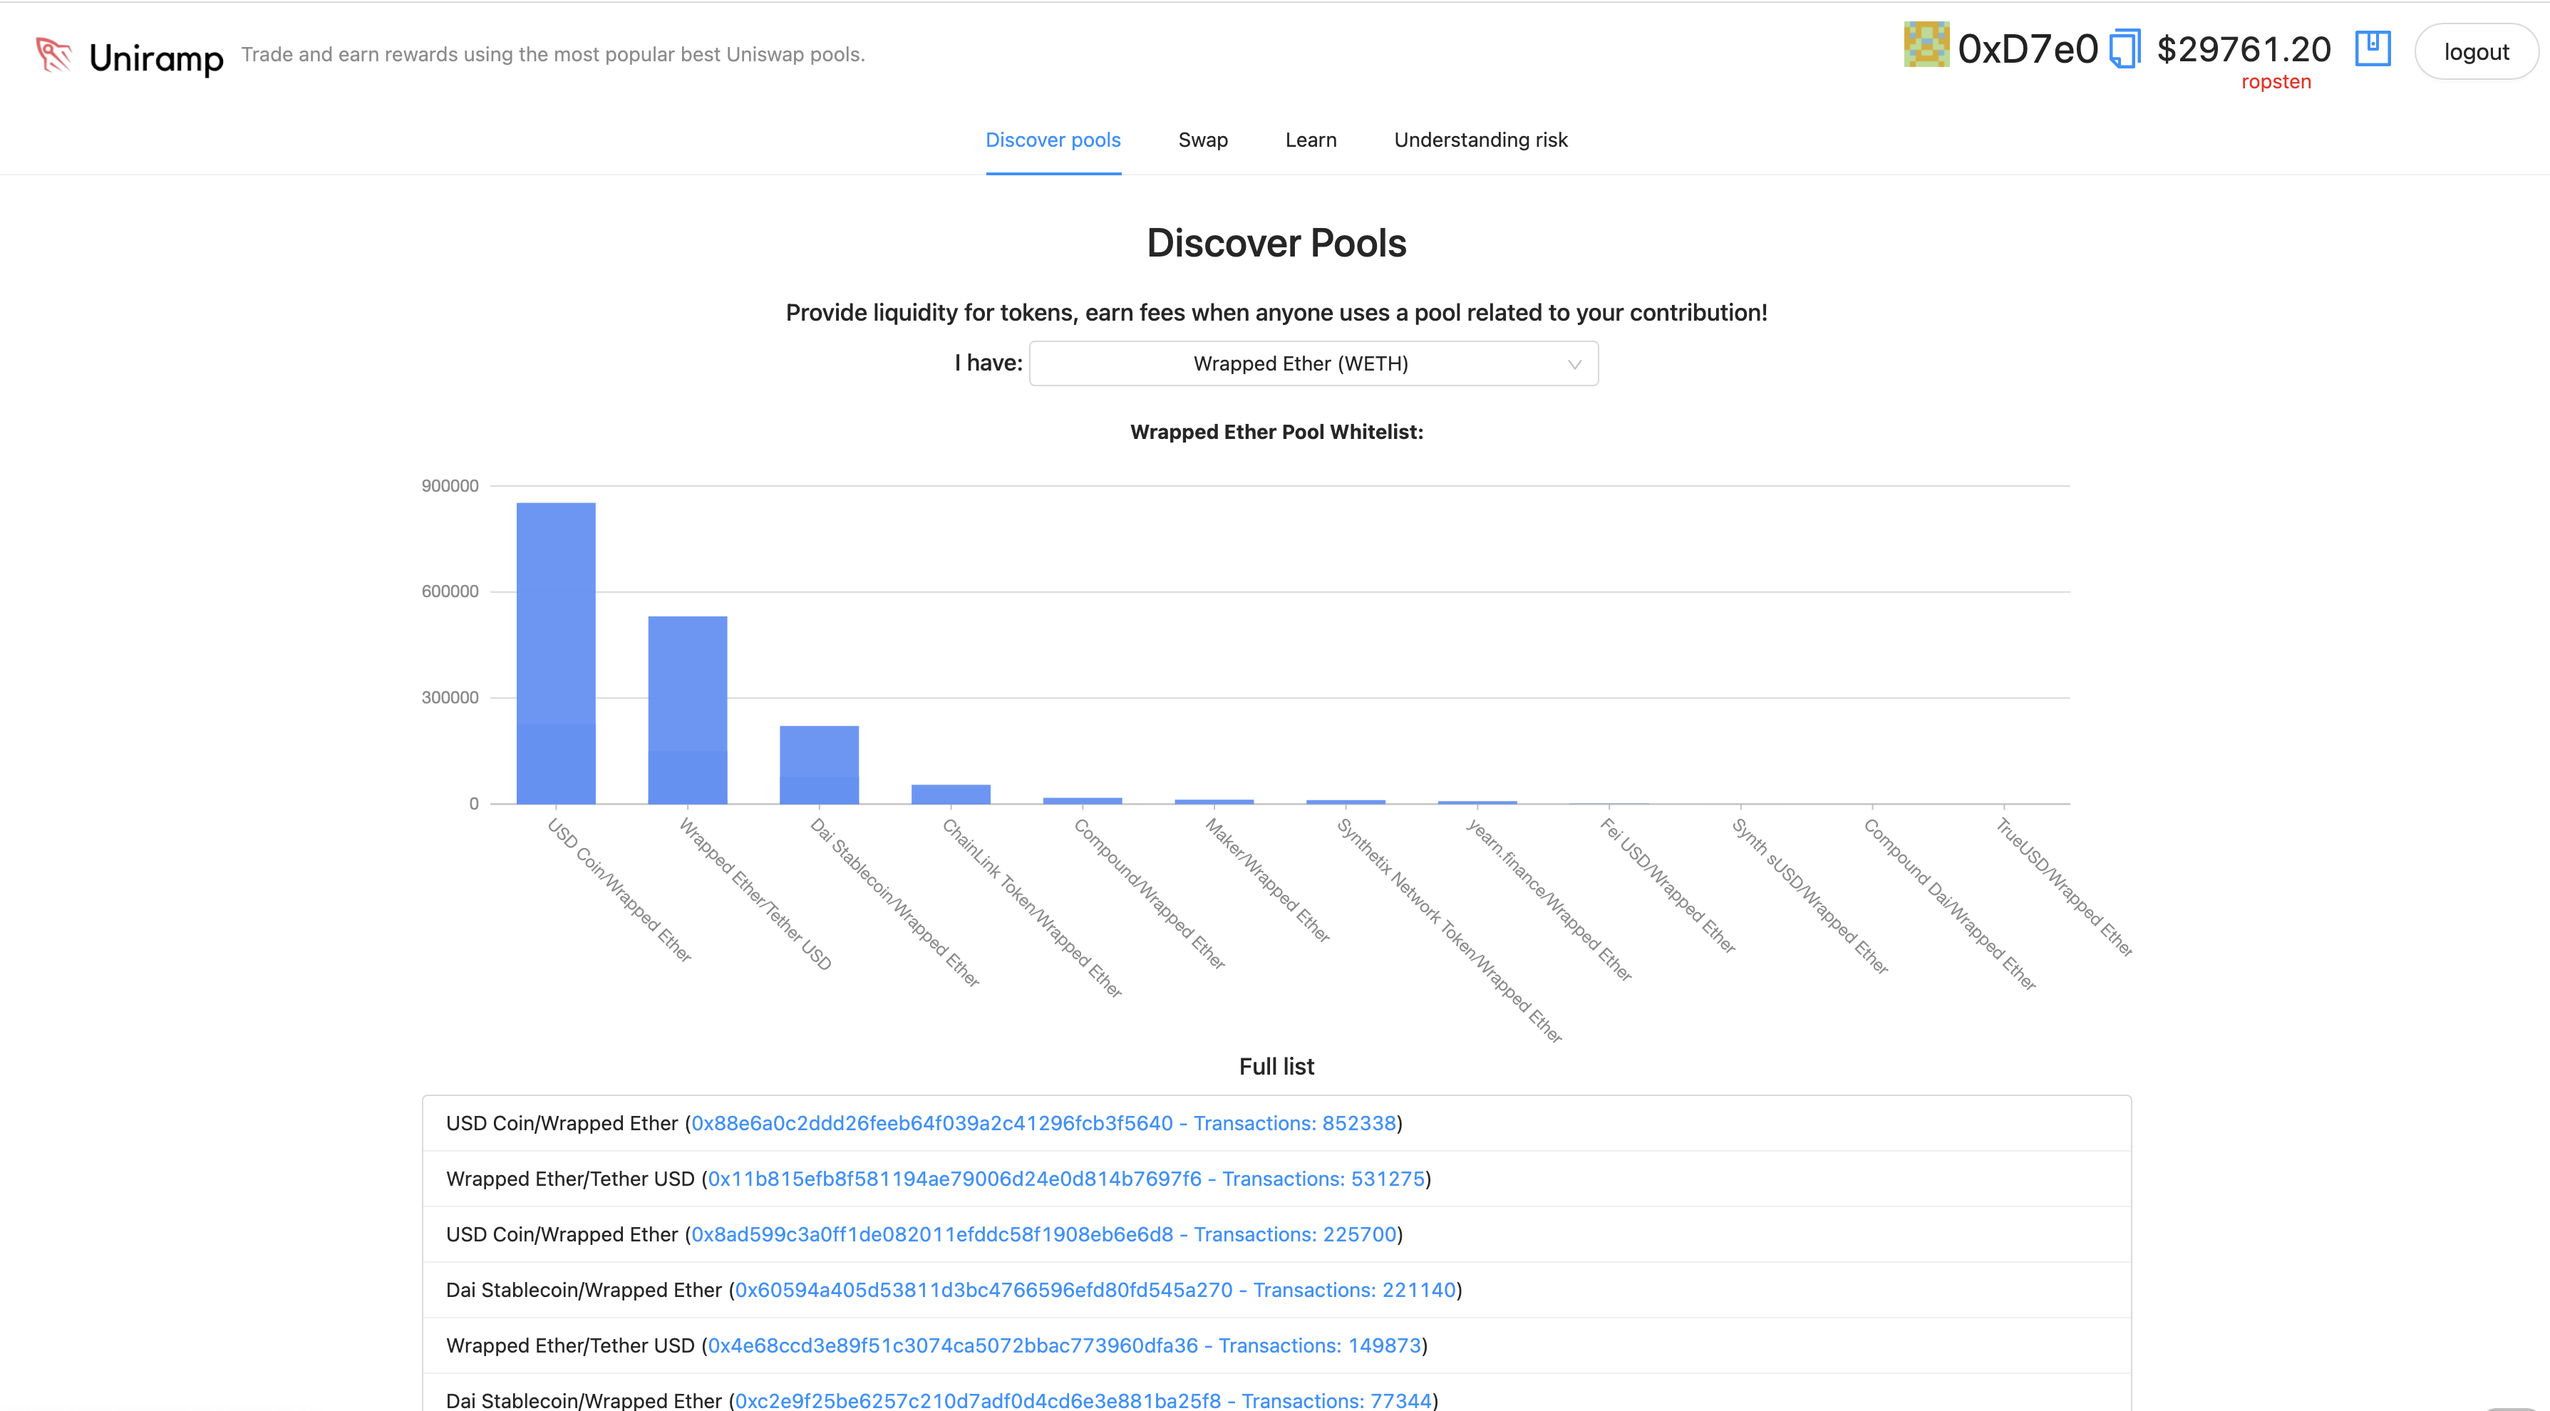
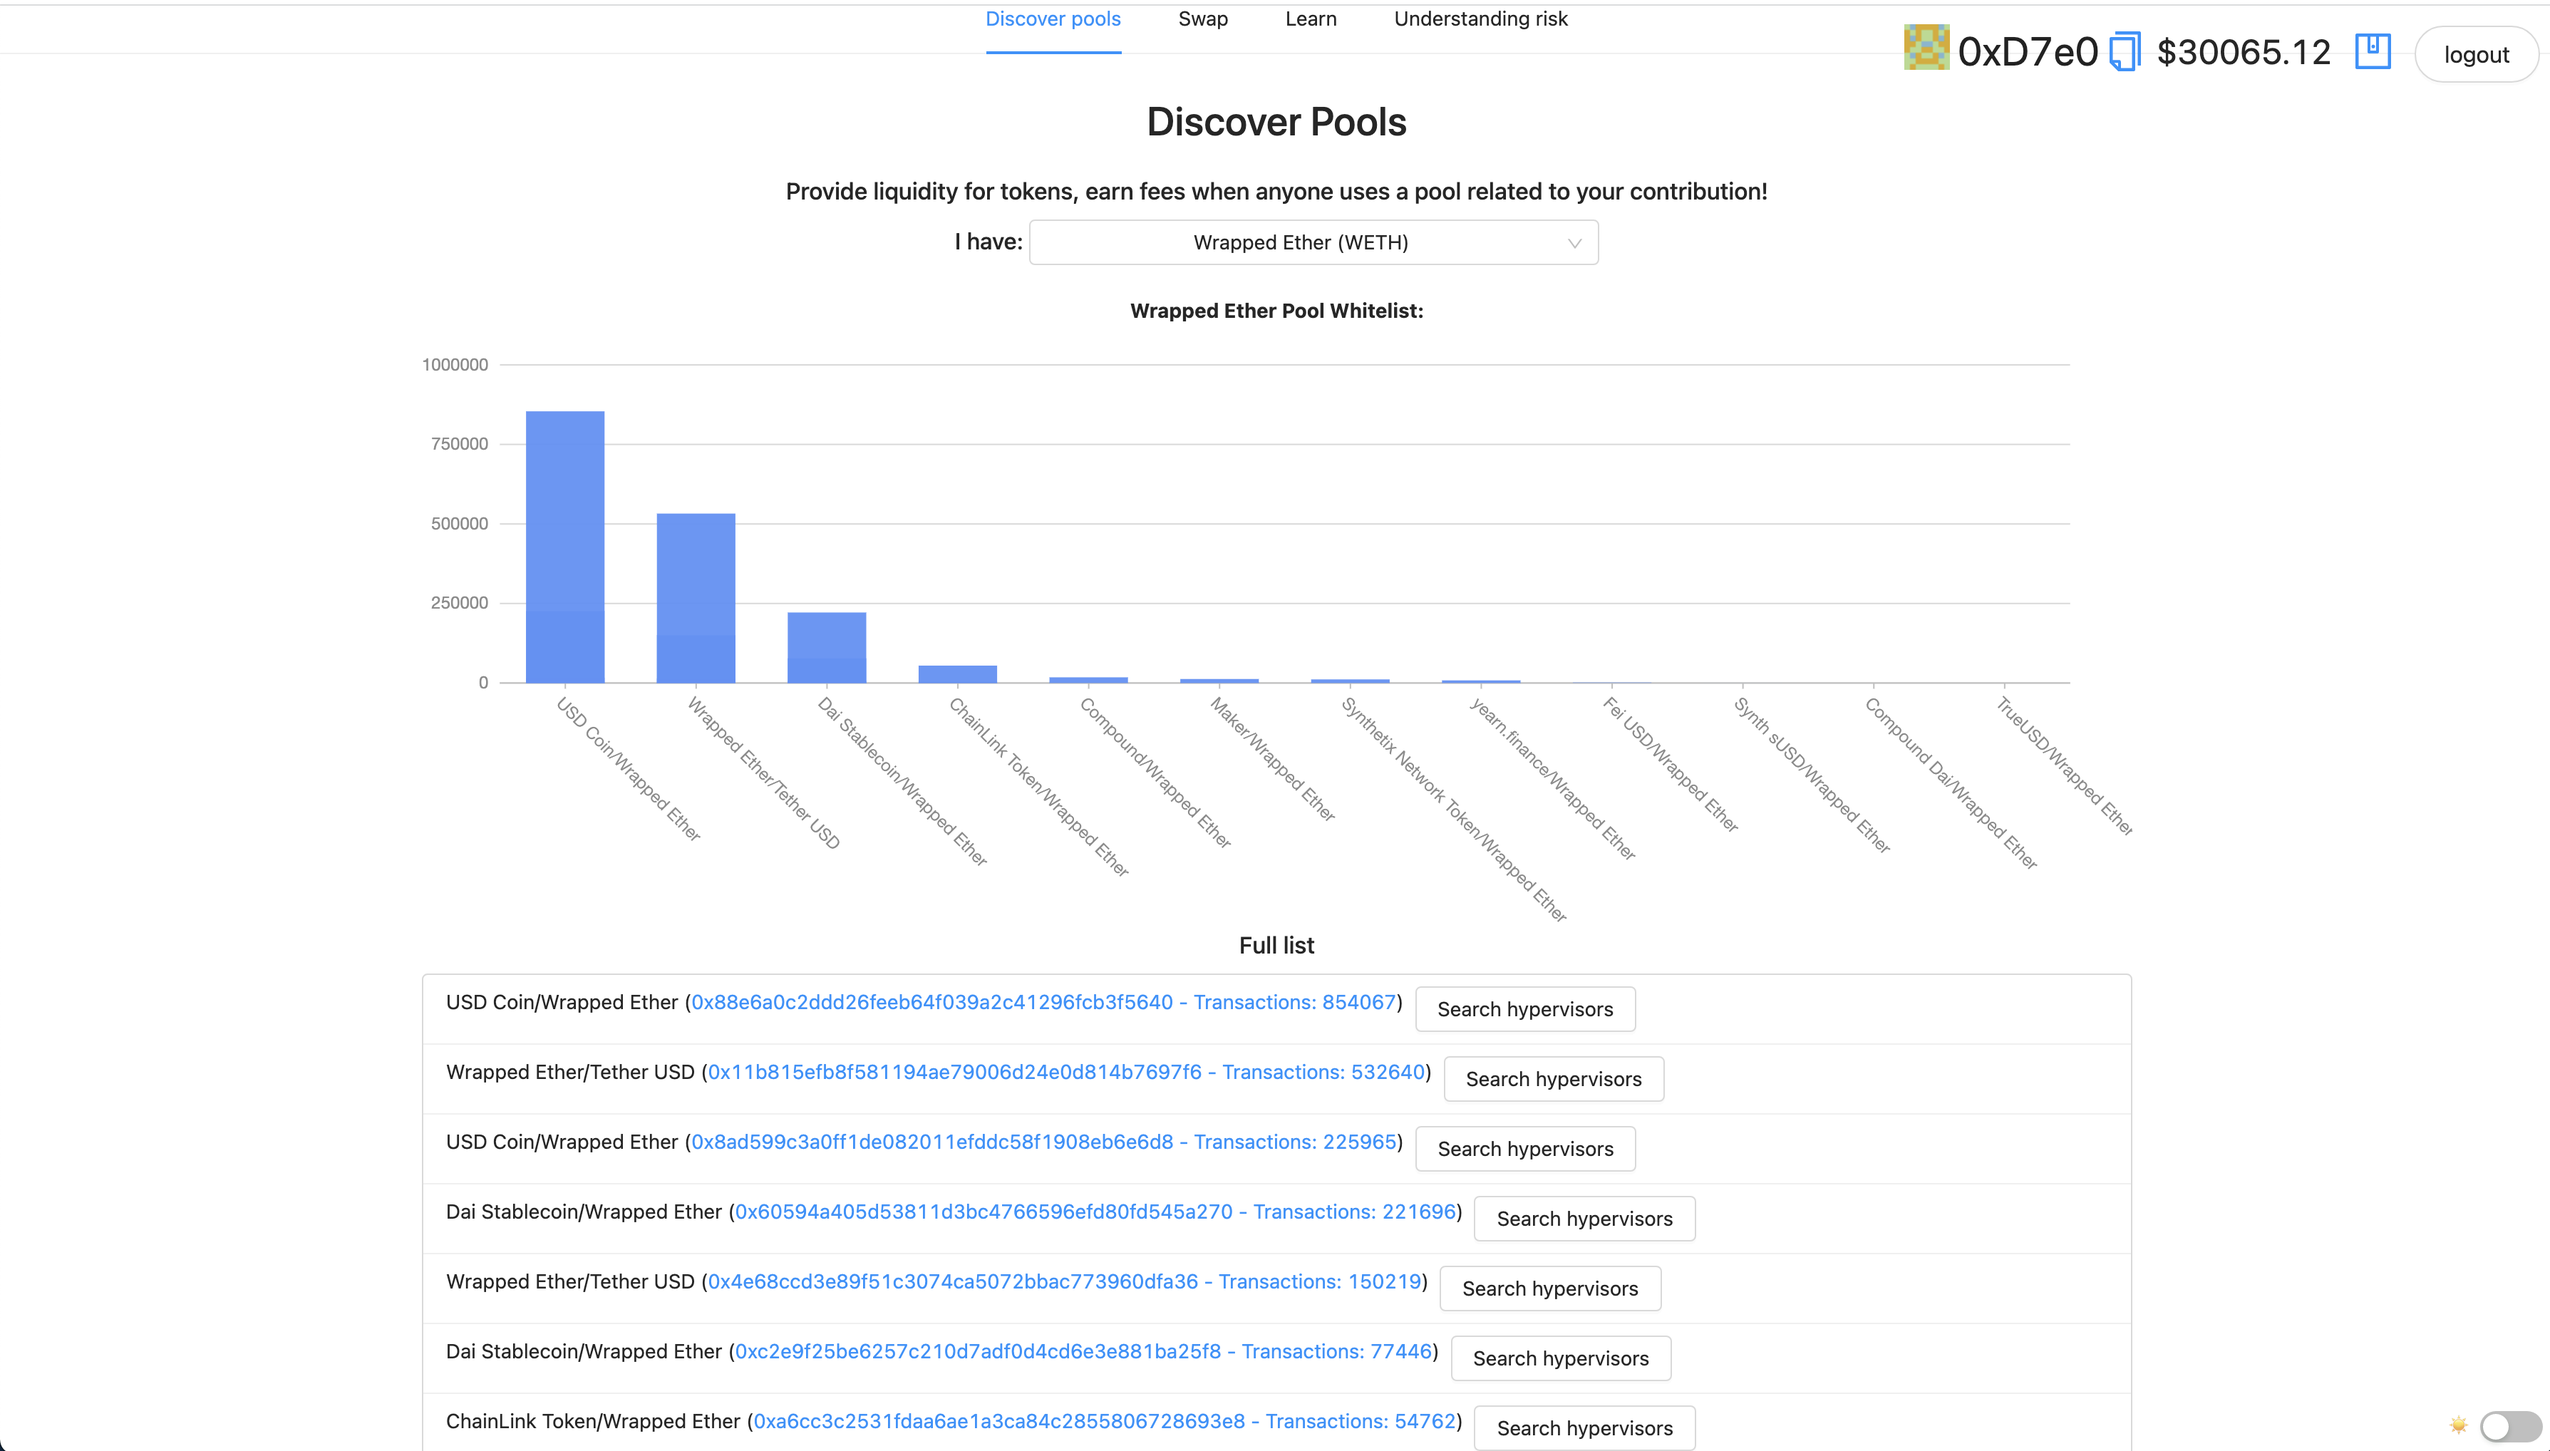
add visors search

diff --git a/packages/react-app/src/components/Earn.jsx b/packages/react-app/src/components/Earn.jsx
@@ -130,9 +130,10 @@ function Earn(props) {
                         <a href="#" onClick={e => openPool(e, item.id)}>
                           {item.id} - Transactions: {item.txCount}
                         </a>
-                        )&nbsp;
+                        )&nbsp;&nbsp;
                         <Button
-                          type="primary"
+                          className="float-right"
+                          type="secondary"
                           onClick={() => queryVisor(item.id)}
                           disabled={visorLoading}
                           loading={visorLoading}
@@ -146,13 +147,7 @@ function Earn(props) {
               </Content>
             </Layout>
           </Layout>
-          <Modal
-            width={800}
-            type="secondary"
-            title="Found Hypervisors"
-            visible={!!visorData}
-            onOk={() => setVisorData(undefined)}
-          >
+          <Modal width={800} title="Found Hypervisors" visible={!!visorData} onOk={() => setVisorData(undefined)}>
             <pre>{JSON.stringify(visorData || {}, null, "\t")}</pre>
           </Modal>
           {/* {pools.map((p, i) => {

diff --git a/packages/react-app/src/App.css b/packages/react-app/src/App.css
@@ -48,6 +48,9 @@
 .first-token {
   margin-bottom: 20px;
 }
+.float-right {
+  float: right;
+}
 
 .trade-heading {
   font-size: 16px;

diff --git a/README.md b/README.md
@@ -42,15 +42,7 @@ Polywrap (optional)
 Skynet (deployment)
 
 * https://showcase.ethglobal.com/unicode/prizes
-
-
-### Useful links
-
-- https://ethglobal.notion.site/UniCode-Info-Center-0ba5eb0ebd384475850ec64a4bc5d257
-- https://unigrants.notion.site/unigrants/UNICODE-Getting-Started-Guide-5f6cdf907a834f73aa28d2fde329d9c7
-- https://thegraph.com/hosted-service/subgraph/ianlapham/uniswap-v3-testing?query=Pools
-- https://docs.polywrap.io/guides/create-js-dapp/react-integration
-- https://medium.com/auditless/how-to-calculate-impermanent-loss-full-derivation-803e8b2497b7
+-->
 
 ### Screenshots
 
@@ -60,6 +52,8 @@ Skynet (deployment)
 <img src="./img/earn.png" width=600/>
 <p>Drill into Uniswap's existing detail view for discovered pools</p>
 <img src="./img/pool.png" width=600/>
+<p>Access existing hypervisors for the given pool / trading pair</p>
+<img src="./img/visors.png" width=600/>
 <p>Better understand assumed risk when providing liquidity</p>
 <img src="./img/risk.png" width=600/>
 <p>Swap tokens from Uniramp with a simple interface</p>
@@ -72,8 +66,6 @@ Skynet (deployment)
 <img src="./img/siasky.png" width=600/>
 <p>Add build to homescreen</p>
 <img src="./img/build.png"/>
-
--->
 
 ### Running the project
 
@@ -101,3 +93,11 @@ The build is minified and the filenames include the hashes.\
 Your app is ready to be deployed!
 
 See the section about [deployment](https://facebook.github.io/create-react-app/docs/deployment) for more information.
+
+### Useful links
+
+- https://ethglobal.notion.site/UniCode-Info-Center-0ba5eb0ebd384475850ec64a4bc5d257
+- https://unigrants.notion.site/unigrants/UNICODE-Getting-Started-Guide-5f6cdf907a834f73aa28d2fde329d9c7
+- https://thegraph.com/hosted-service/subgraph/ianlapham/uniswap-v3-testing?query=Pools
+- https://docs.polywrap.io/guides/create-js-dapp/react-integration
+- https://medium.com/auditless/how-to-calculate-impermanent-loss-full-derivation-803e8b2497b7
